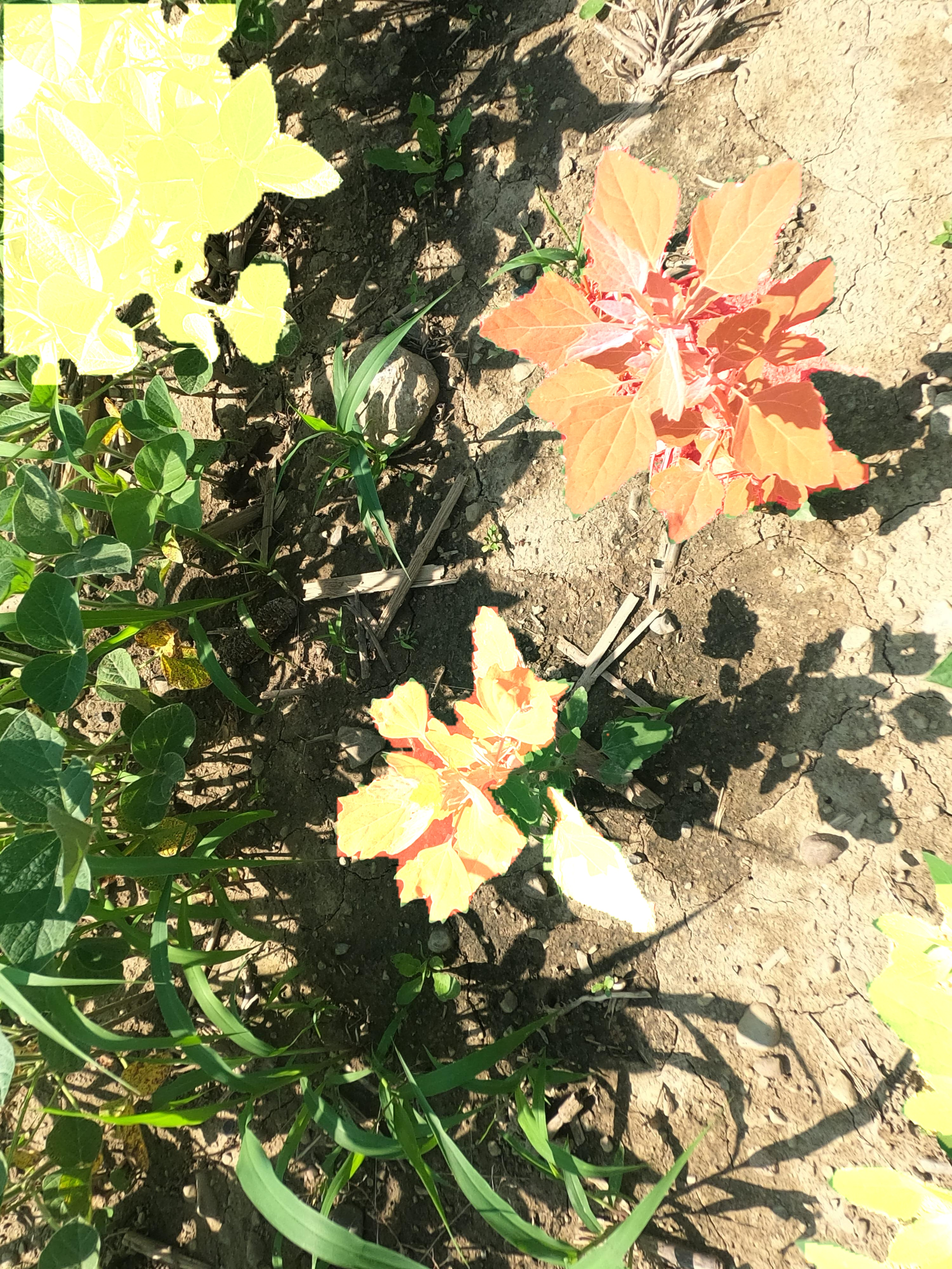
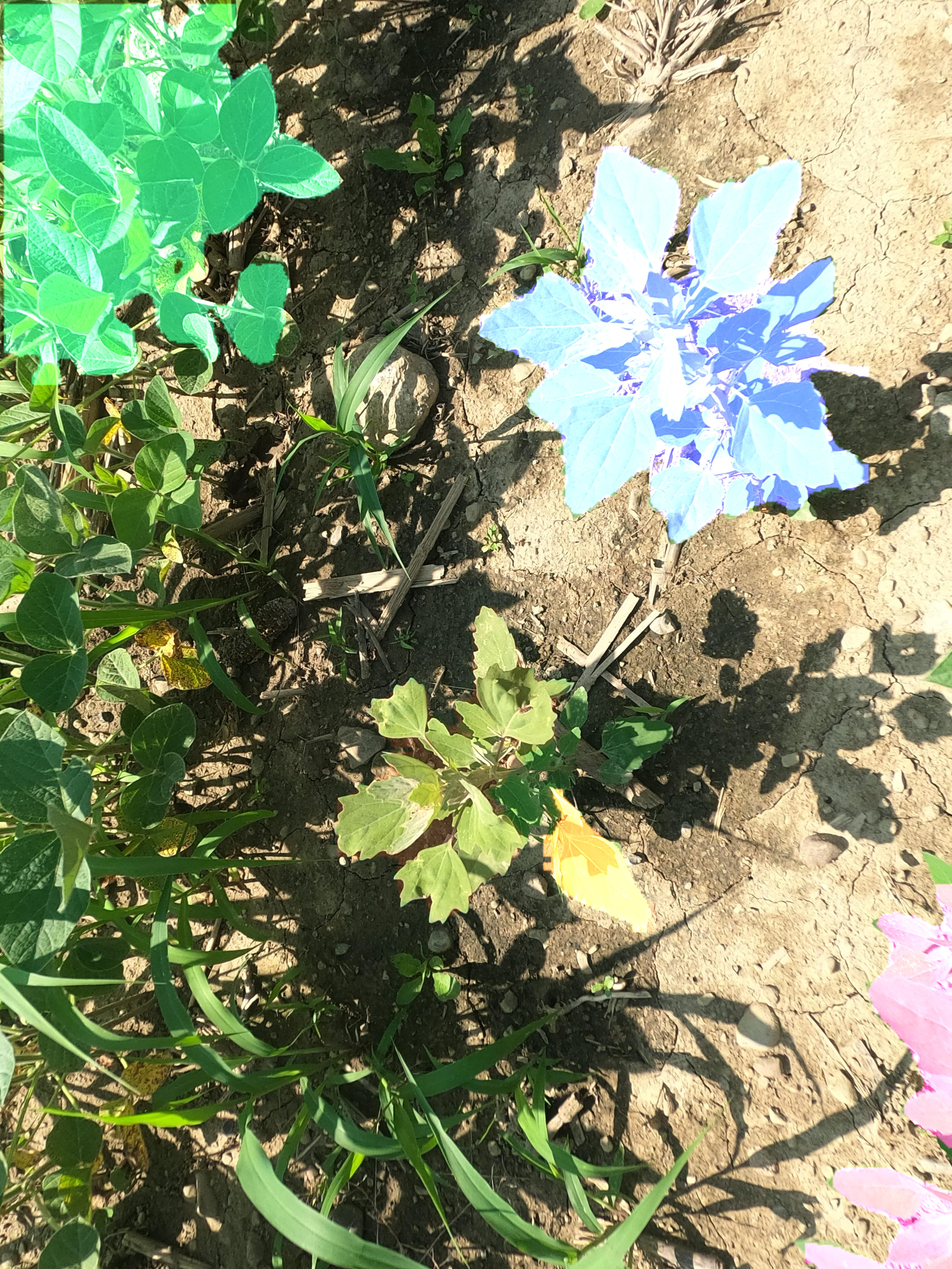
fix: segmentation region update

diff --git a/client-gui/src/app/_components/settings.tsx b/client-gui/src/app/_components/settings.tsx
@@ -40,24 +40,45 @@ const Settings = ({ onChange }: { onChange: (ops: string[]) => void }) => {
     });
     
     const result = await response.json(); 
-    console.log(result)
+    // console.log(result)
     const firstImgName = Object.keys(result)[0];
     const seg = result[firstImgName]["segment"];
   
-    // console.log(seg[0])
-    //create new region
+    // console.log(seg)
+ 
+  const newRegions: Region[] = [];
+  
+  let level = 0;
+  let count = 0;
 
-    for (const [idx, r] of seg.entries()) {
-      for (const contour of r) { 
+  for (const [idx, r] of seg.entries()) {
+    level += 1;
+    for (const contour of r) { 
+      count += 1;
+      console.log("contour", contour);
+      
+      if (Array.isArray(contour)) {
         const newPoints = contour.map(([x, y]: [number, number]) => ({ x, y }));
         const newRegion: Region = {
-          id: `region-${idx}`,
+          id: `region-${level}-${count}`,
           points: newPoints,
           color: "#ff0000" 
         };
-        setRegions([...regions, newRegion]);
+        console.log("new region", newRegion);
+        
+        // Add to our collection instead of updating state
+        newRegions.push(newRegion);
+      } else {
+        console.warn(`Skipping non-array contour: ${contour}`);
       }
     }
+  }
+  
+  // Now update state once with all the new regions
+  if (newRegions.length > 0) {
+    console.log(`Adding ${newRegions.length} new regions`);
+    setRegions([...regions, ...newRegions]);
+  }
    
       // console.log(regions)
   }

diff --git a/client-gui/src/app/_components/canvas/Canvas.tsx b/client-gui/src/app/_components/canvas/Canvas.tsx
@@ -4,11 +4,6 @@ import Konva from "konva";
 import useCanvasStore from "../../_store/canvas";
 import BaseImage from "./BaseImage";
 import { getRelativePointerPosition, zoomLayer, zoomStage } from './utils';
-import FormControl from '@mui/material/FormControl';
-import InputLabel from '@mui/material/InputLabel';
-
-import MenuItem from '@mui/material/MenuItem';
-import Select, { SelectChangeEvent } from '@mui/material/Select';
 
 let id = 1;
 
@@ -209,7 +204,7 @@ const Canvas = ({ stageRef, imageLayerRef, regionLayerRef, focusName, setFocusNa
     };
   }, []); // Run once on mount 
 
-
+  //actions that depends on focusLayer; 
   useEffect(() => {
     if (focusLayer) {
           focusLayer.on("wheel", (e) => {

diff --git a/client-gui/src/app/_store/canvas.tsx b/client-gui/src/app/_store/canvas.tsx
@@ -54,7 +54,7 @@ const useCanvasStore = create<StoreState>(set => ({
     toggleIsDrawing: () => set(state => ({ isDrawing: !state.isDrawing })),
 
     regions: [],
-    setRegions: (regions: Region[]) => set(state => ({ regions })),
+    setRegions: (regions: Region[]) => set(state => ({ regions })), 
 
     selectedRigionId: null,
     selectRegion: (selectedRigionId: string | number | null) => set({ selectedRigionId }),
